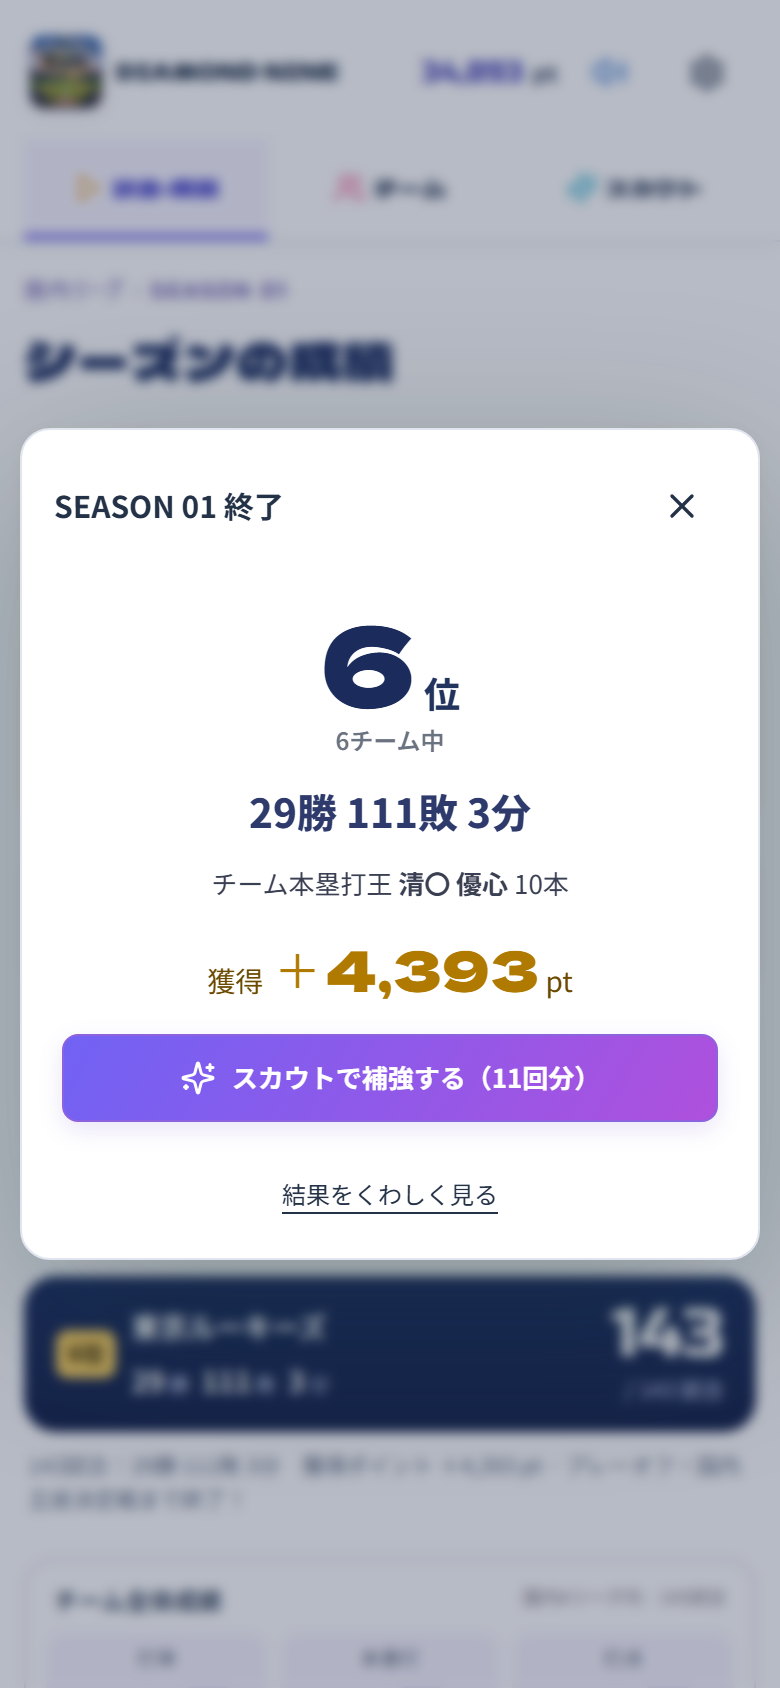
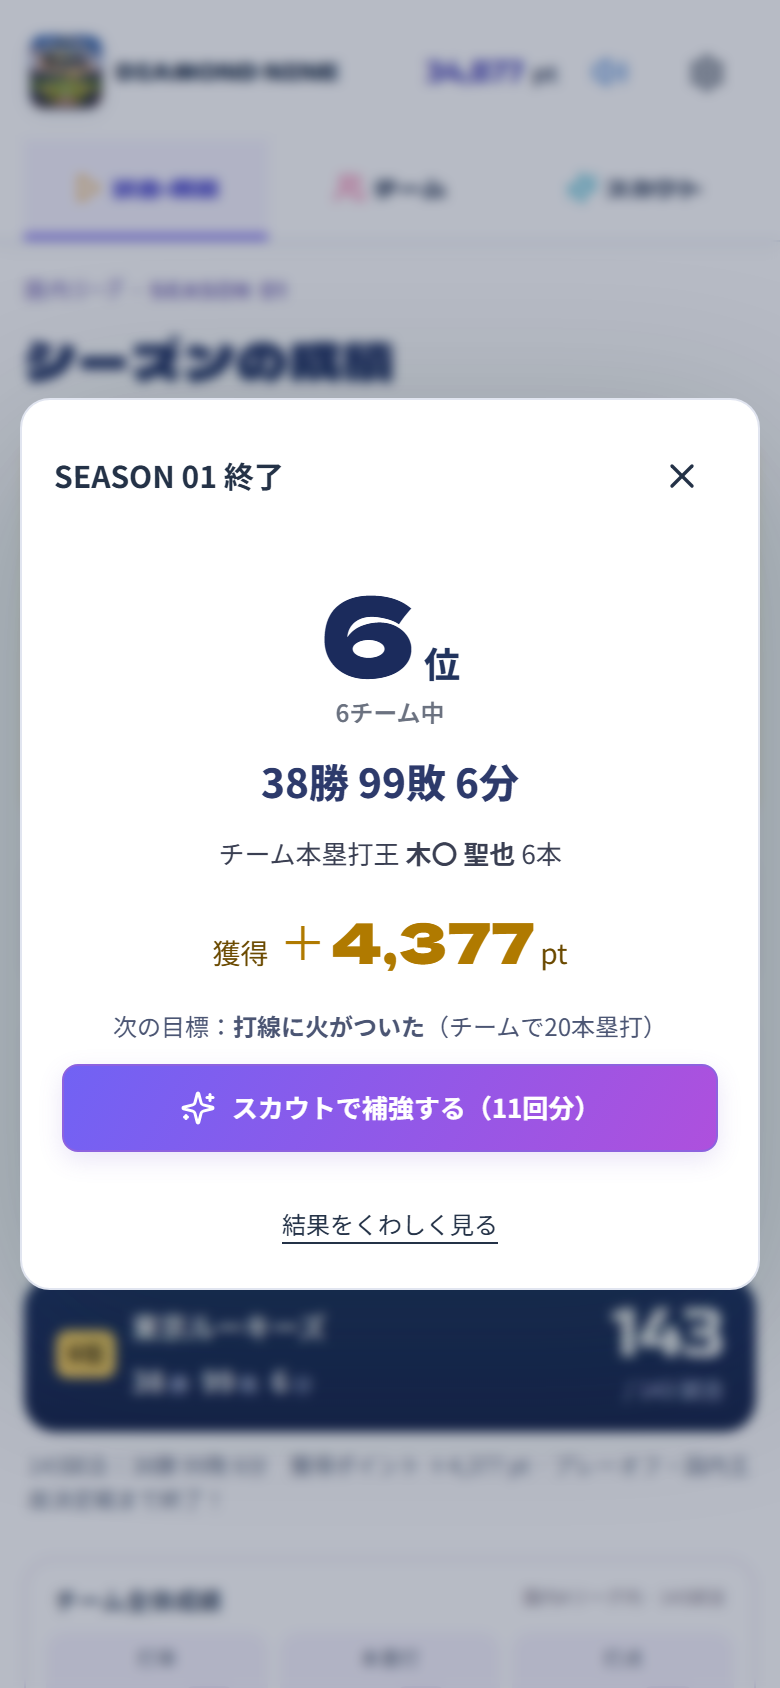
Stepping-stone season goals: 60 wins, out of last, winning record, A-class
A new club finishes last for its first seasons against real rosters, and the
next goal after 50 wins was a league title. Rank goals are judged only after the
regular season ends. The season card lists goals met (300 pt and up) and the
next goal. Raising the starting-roster caps was measured too (+2 wins in year 1)
and left out to keep the weak-start design.

diff --git a/src/pro/SimpleApp.tsx b/src/pro/SimpleApp.tsx
@@ -52,6 +52,7 @@ import {DailyPanel} from './DailyPanel';
 import {LAUNCH_GIFT,noteDailyMission,takeDailyLogin,takeLaunchGift,useDaily} from './daily';
 import {maybeAskReview,noteReviewPlayDay} from './review';
 import {FeedbackCard} from './FeedbackCard';
+import {seasonGoals} from './ambitions';
 import {feedbackUrl} from './feedback';
 
 type Page='season'|'team'|'scout'|'catalog';
@@ -152,14 +153,16 @@ export function SimpleSeason({state,busy,progress,onPlay,onPost,onNext,onPlayer,
 
 export function SimplePlayerCard({player,state}:{player:Player;state:GameState}){return <div className="s-player-card"><TradingCard player={player} state={state}/></div>;}
 
-type SeasonCard={number:number;rank:number;teams:number;w:number;l:number;d:number;points:number;better:number|null;star:{name:string;hr:number}|null};
+type SeasonCard={number:number;rank:number;teams:number;w:number;l:number;d:number;points:number;better:number|null;star:{name:string;hr:number}|null;goals:{title:string;reward:number}[];next:{title:string;detail:string}|null};
 // The end-of-season summary: rank, record, change from last season, the club's
 // home-run leader and the points earned, with a way straight into scouting.
 export function seasonCardFor(state:GameState,points:number):SeasonCard{
  const table=rankings(state.season,leagueFor(state.season,state.club)),i=table.findIndex(t=>t.team===state.club),me=table[i];
  const last=state.history.find(h=>h.number===state.season.number-1)?.standings.find(t=>t.team===state.club);
  const top=Object.values(state.season.batting).filter(b=>b.team===state.club).sort((a,b)=>b.hr-a.hr)[0];
- return {number:state.season.number,rank:i+1,teams:table.length,w:me.w,l:me.l,d:me.d,points,better:last?me.w-last.w:null,star:top&&top.hr>0&&playerMap[top.playerId]?{name:playerMap[top.playerId].name,hr:top.hr}:null};
+ const goals=seasonGoals(state),next=goals.find(g=>!g.claimed);
+ return {number:state.season.number,rank:i+1,teams:table.length,w:me.w,l:me.l,d:me.d,points,better:last?me.w-last.w:null,star:top&&top.hr>0&&playerMap[top.playerId]?{name:playerMap[top.playerId].name,hr:top.hr}:null,
+  goals:goals.filter(g=>g.claimed&&g.reward>=300).map(g=>({title:g.title,reward:g.reward})),next:next?{title:next.title,detail:next.detail}:null};
 }
 export function SimpleScout({state,onDraw,onDrawMany,onEquip,drawing,hasDrawn,onSeason,onPlayer,onSkip,adSlot}:{state:GameState;onDraw:()=>void;onDrawMany?:(n:number)=>void;onEquip:(id:string)=>void;drawing:boolean;hasDrawn:boolean;onSeason:()=>void;onPlayer?:(p:Player)=>void;onSkip?:()=>void;adSlot?:ReactNode}){
  const panel=useRef<HTMLElement>(null),result=useRef<HTMLDivElement>(null);
@@ -329,5 +332,5 @@ export default function SimpleApp({profile='career',onProfileChange}:{profile?:P
   };
   timer.current=setTimeout(()=>finishDraw.current?.(),scoutDuration(tier));
  };
- return <div className="simple-app"><header className="s-header"><a href="#" onClick={e=>{e.preventDefault();go('season');}} className="s-brand"><img className="s-brand-icon" src="/assets/pro/diamond-nine-logo-v1.png" alt="" width={44} height={44}/><b>DIAMOND NINE</b></a><div><span className="s-wallet">{count(state.gems)} <small>pt</small></span><button className="s-icon sound-toggle" aria-label={sound?"効果音をオフにする":"効果音をオンにする"} onClick={toggleSound}>{sound?<Volume2 size={18}/>:<VolumeX size={18}/>}</button><button className="s-icon" aria-label="設定を開く" onClick={()=>setSettings(true)} disabled={busy||drawing}><Settings size={19}/></button></div></header><nav className="s-nav" aria-label="メインメニュー">{tabs.map(t=><button key={t.id} aria-current={(page==='catalog'?'team':page)===t.id?'page':undefined} onClick={()=>go(t.id)} disabled={busy||drawing||starter}><t.icon size={18}/>{t.label}</button>)}</nav><main className="s-main">{!starter&&!tutorialOn&&<TesterBanner/>}{saveError&&<div className="s-save-error" role="alert">{saveError}<button onClick={()=>setSettings(true)}>設定を開く</button></div>}<BeginnerTutorial state={state} profile={profile} page={page} replay={tutorialReplay} busy={busy||drawing} onPage={go} onAuto={()=>change(buildByStrategy(state,'balanced'))} onPlay={()=>play(seasonGames(state.season))} onActive={setTutorialOn}/>{starter?<StarterScout key={resetId+'-'+state.starterScout!.choices.join('-')} state={state} sound={sound} onPick={(index,name)=>commitStarter(index,name)} onFinish={name=>commitStarter(null,name)} onPlayer={p=>setSelected(p.id)}/>:<>{page==='season'&&<SimpleSeason state={state} busy={busy} progress={progress} onPlay={play} onPost={post} onNext={()=>{track('season_next',{season:state.season.number+1});if(state.season.postseason?.champion===state.club)setTimeout(()=>maybeAskReview('title'),600);change(nextSeason(state));setMessage('新しいシーズンが始まりました。');}} onSwitchLeague={target=>{track('league_switch',{to:target});change(switchLeague(state,target));setMessage(circuitLabel(target)+'に切り替えました。選手・育成・ポイントは引き継いでいます。');}} onPlayer={p=>setSelected(p.id)} message={message} daily={<DailyPanel disabled={busy||drawing} onReward={addPoints}/>}/ >}{page==='catalog'&&<PlayerCatalog state={state} onBack={()=>go('team')} onPlayer={p=>setSelected(p.id)}/ >}{page==='team'&&<DeckTeam key={resetId} state={state} onChange={change} onPlayer={p=>setSelected(p.id)} onImpact={impact} onCatalog={()=>go('catalog')} onSeason={()=>go('season')} onReset={reset} onRestore={restore} onCompleteReset={askCompleteReset} canRestore={canRestore}/ >}{page==='scout'&&<SimpleScout state={state} onSkip={()=>finishDraw.current?.()} onDraw={draw} onDrawMany={drawMany} onEquip={id=>change(equipScoutedPlayer(state,id))} drawing={drawing} hasDrawn={hasDrawn} onSeason={()=>go('season')} onPlayer={p=>setSelected(p.id)} adSlot={rewardAd}/ >}</>}</main><footer className="s-footer">自動保存 · 国内・海外の選手 · 非公式ゲーム<div className="s-public-links"><a href="/guide.html" target="_blank" rel="noopener noreferrer">遊び方ガイド</a><a href="/welcome.html" target="_blank" rel="noopener noreferrer">ゲームを紹介する</a><a href="/privacy.html" target="_blank" rel="noopener noreferrer">データ・プライバシー</a></div></footer>{selected&&<PlayerInfo player={playerMap[selected]} state={state} catalog={page==='catalog'} onChange={change} onClose={()=>setSelected(null)} onAwaken={()=>{if(sound)gameSound('awaken');}}/ >}{settings&&<SimpleSettings onTutorial={()=>{setSettings(false);setTutorialReplay(v=>v+1);window.scrollTo({top:0,behavior:'auto'});}} state={state} onChange={change} onClose={()=>setSettings(false)} onProfileChange={onProfileChange} onReset={reset} onRestore={restore} onCompleteReset={askCompleteReset} canRestore={canRestore}/ >}{confirmCompleteReset&&<Dialog title="完全リセット" onClose={()=>setConfirmCompleteReset(false)}><div className="complete-reset-dialog"><h3>このクラブの獲得カードをすべて消します。</h3><p>所持カード {Object.keys(state.owned).length}人分・重複獲得・覚醒・ポイント・シーズン成績と、リセット前の復元用データを削除します。</p><p>初期配布の26人、覚醒なし、0ポイントに戻り、スタートスカウトで1人を選んで再スタートします。</p><p><strong>完全リセット後は元に戻せません。</strong></p><div><button className="s-button" onClick={()=>setConfirmCompleteReset(false)}>キャンセル</button><button className="s-button complete-reset" onClick={completeReset}>所持カードを消して最初から</button></div></div></Dialog>}{seasonCard&&!celebration&&<Dialog title={`SEASON ${String(seasonCard.number).padStart(2,'0')} 終了`} className="season-card-dialog" onClose={()=>setSeasonCard(null)}><div className="season-card"><p className="season-card-rank"><b>{seasonCard.rank}</b>位<small>{seasonCard.teams}チーム中</small></p><p className="season-card-record">{seasonCard.w}勝 {seasonCard.l}敗{seasonCard.d?` ${seasonCard.d}分`:''}{seasonCard.better!==null&&<em className={seasonCard.better>0?'up':seasonCard.better<0?'down':''}>{seasonCard.better>0?`昨季より ＋${seasonCard.better}勝`:seasonCard.better<0?`昨季より ${seasonCard.better}勝`:'昨季と同じ勝ち数'}</em>}</p>{seasonCard.star&&<p className="season-card-star">チーム本塁打王 <strong>{seasonCard.star.name}</strong> {seasonCard.star.hr}本</p>}<p className="season-card-points">獲得 <b>＋{count(seasonCard.points)}</b> pt</p>{state.gems>=SIMPLE_SCOUT_COST?<button className="s-primary" onClick={()=>{setSeasonCard(null);go('scout');}}><Sparkles size={18}/>スカウトで補強する（{Math.floor(state.gems/SIMPLE_SCOUT_COST)}回分）</button>:<p className="season-card-hint">次のスカウトまで あと{count(SIMPLE_SCOUT_COST-state.gems)} pt</p>}<button className="s-text-link" onClick={()=>setSeasonCard(null)}>結果をくわしく見る</button></div></Dialog>}{batch&&<Dialog title={`スカウト結果 ${batch.length}人`} className="batch-dialog" onClose={()=>setBatch(null)}><ul className="batch-list">{batch.map((p,i)=>({p,i,o:effectiveOverall(playerMap[p.playerId],state.owned,state.training)})).sort((a,b)=>b.o-a.o||a.i-b.i).map(({p,i,o},k)=>{const pl=playerMap[p.playerId];return <li key={i} className={k===0?'best':''}><b>{o}</b><span><strong>{pl.name}</strong><small>{pl.role==='pitcher'?'投手':pl.positions.join('・')||'DH'}{pl.mlb?' · 海外':''}</small></span>{p.isNew?<em>NEW</em>:<i>{p.copies<=6?'能力＋1':'＋80pt'}</i>}</li>;})}</ul><button className="s-primary" onClick={()=>{change(buildByStrategy(state,'balanced'));setBatch(null);setMessage('おまかせ編成しました。');}}><Shuffle size={17}/>おまかせ編成する</button><button className="s-text-link" onClick={()=>setBatch(null)}>閉じる</button></Dialog>}{giftPopup>0&&!tutorialOn&&!starter&&!celebration&&<Dialog title="公開記念ボーナス" className="gift-dialog" onClose={()=>setGiftPopup(0)}><div className="gift-body"><p>DIAMOND NINE の公開を記念して、ポイントをプレゼントしました。</p><b>＋{count(giftPopup)}<small>pt</small></b><p className="gift-hint">スカウト{Math.floor(giftPopup/SIMPLE_SCOUT_COST)}回分です。打線を強くする選手を探しましょう。</p><button className="s-primary" onClick={()=>{track('launch_gift_scout',{});setGiftPopup(0);go('scout');}}><Sparkles size={18}/>スカウトで補強する</button><button className="s-text-link" onClick={()=>setGiftPopup(0)}>あとで</button></div></Dialog>}{celebration&&<TitleCelebration celebration={celebration} sound={sound} onToggleSound={toggleSound} onClose={()=>setCelebration(null)}/>}<PlayerHoverPreview owned={page==='catalog'?{}:state.owned} training={page==='catalog'?{}:state.training}/></div>;
+ return <div className="simple-app"><header className="s-header"><a href="#" onClick={e=>{e.preventDefault();go('season');}} className="s-brand"><img className="s-brand-icon" src="/assets/pro/diamond-nine-logo-v1.png" alt="" width={44} height={44}/><b>DIAMOND NINE</b></a><div><span className="s-wallet">{count(state.gems)} <small>pt</small></span><button className="s-icon sound-toggle" aria-label={sound?"効果音をオフにする":"効果音をオンにする"} onClick={toggleSound}>{sound?<Volume2 size={18}/>:<VolumeX size={18}/>}</button><button className="s-icon" aria-label="設定を開く" onClick={()=>setSettings(true)} disabled={busy||drawing}><Settings size={19}/></button></div></header><nav className="s-nav" aria-label="メインメニュー">{tabs.map(t=><button key={t.id} aria-current={(page==='catalog'?'team':page)===t.id?'page':undefined} onClick={()=>go(t.id)} disabled={busy||drawing||starter}><t.icon size={18}/>{t.label}</button>)}</nav><main className="s-main">{!starter&&!tutorialOn&&<TesterBanner/>}{saveError&&<div className="s-save-error" role="alert">{saveError}<button onClick={()=>setSettings(true)}>設定を開く</button></div>}<BeginnerTutorial state={state} profile={profile} page={page} replay={tutorialReplay} busy={busy||drawing} onPage={go} onAuto={()=>change(buildByStrategy(state,'balanced'))} onPlay={()=>play(seasonGames(state.season))} onActive={setTutorialOn}/>{starter?<StarterScout key={resetId+'-'+state.starterScout!.choices.join('-')} state={state} sound={sound} onPick={(index,name)=>commitStarter(index,name)} onFinish={name=>commitStarter(null,name)} onPlayer={p=>setSelected(p.id)}/>:<>{page==='season'&&<SimpleSeason state={state} busy={busy} progress={progress} onPlay={play} onPost={post} onNext={()=>{track('season_next',{season:state.season.number+1});if(state.season.postseason?.champion===state.club)setTimeout(()=>maybeAskReview('title'),600);change(nextSeason(state));setMessage('新しいシーズンが始まりました。');}} onSwitchLeague={target=>{track('league_switch',{to:target});change(switchLeague(state,target));setMessage(circuitLabel(target)+'に切り替えました。選手・育成・ポイントは引き継いでいます。');}} onPlayer={p=>setSelected(p.id)} message={message} daily={<DailyPanel disabled={busy||drawing} onReward={addPoints}/>}/ >}{page==='catalog'&&<PlayerCatalog state={state} onBack={()=>go('team')} onPlayer={p=>setSelected(p.id)}/ >}{page==='team'&&<DeckTeam key={resetId} state={state} onChange={change} onPlayer={p=>setSelected(p.id)} onImpact={impact} onCatalog={()=>go('catalog')} onSeason={()=>go('season')} onReset={reset} onRestore={restore} onCompleteReset={askCompleteReset} canRestore={canRestore}/ >}{page==='scout'&&<SimpleScout state={state} onSkip={()=>finishDraw.current?.()} onDraw={draw} onDrawMany={drawMany} onEquip={id=>change(equipScoutedPlayer(state,id))} drawing={drawing} hasDrawn={hasDrawn} onSeason={()=>go('season')} onPlayer={p=>setSelected(p.id)} adSlot={rewardAd}/ >}</>}</main><footer className="s-footer">自動保存 · 国内・海外の選手 · 非公式ゲーム<div className="s-public-links"><a href="/guide.html" target="_blank" rel="noopener noreferrer">遊び方ガイド</a><a href="/welcome.html" target="_blank" rel="noopener noreferrer">ゲームを紹介する</a><a href="/privacy.html" target="_blank" rel="noopener noreferrer">データ・プライバシー</a></div></footer>{selected&&<PlayerInfo player={playerMap[selected]} state={state} catalog={page==='catalog'} onChange={change} onClose={()=>setSelected(null)} onAwaken={()=>{if(sound)gameSound('awaken');}}/ >}{settings&&<SimpleSettings onTutorial={()=>{setSettings(false);setTutorialReplay(v=>v+1);window.scrollTo({top:0,behavior:'auto'});}} state={state} onChange={change} onClose={()=>setSettings(false)} onProfileChange={onProfileChange} onReset={reset} onRestore={restore} onCompleteReset={askCompleteReset} canRestore={canRestore}/ >}{confirmCompleteReset&&<Dialog title="完全リセット" onClose={()=>setConfirmCompleteReset(false)}><div className="complete-reset-dialog"><h3>このクラブの獲得カードをすべて消します。</h3><p>所持カード {Object.keys(state.owned).length}人分・重複獲得・覚醒・ポイント・シーズン成績と、リセット前の復元用データを削除します。</p><p>初期配布の26人、覚醒なし、0ポイントに戻り、スタートスカウトで1人を選んで再スタートします。</p><p><strong>完全リセット後は元に戻せません。</strong></p><div><button className="s-button" onClick={()=>setConfirmCompleteReset(false)}>キャンセル</button><button className="s-button complete-reset" onClick={completeReset}>所持カードを消して最初から</button></div></div></Dialog>}{seasonCard&&!celebration&&<Dialog title={`SEASON ${String(seasonCard.number).padStart(2,'0')} 終了`} className="season-card-dialog" onClose={()=>setSeasonCard(null)}><div className="season-card"><p className="season-card-rank"><b>{seasonCard.rank}</b>位<small>{seasonCard.teams}チーム中</small></p><p className="season-card-record">{seasonCard.w}勝 {seasonCard.l}敗{seasonCard.d?` ${seasonCard.d}分`:''}{seasonCard.better!==null&&<em className={seasonCard.better>0?'up':seasonCard.better<0?'down':''}>{seasonCard.better>0?`昨季より ＋${seasonCard.better}勝`:seasonCard.better<0?`昨季より ${seasonCard.better}勝`:'昨季と同じ勝ち数'}</em>}</p>{seasonCard.star&&<p className="season-card-star">チーム本塁打王 <strong>{seasonCard.star.name}</strong> {seasonCard.star.hr}本</p>}{seasonCard.goals.length>0&&<ul className="season-card-goals">{seasonCard.goals.map(g=><li key={g.title}><Check size={14}/>{g.title}<span>＋{count(g.reward)} pt</span></li>)}</ul>}<p className="season-card-points">獲得 <b>＋{count(seasonCard.points)}</b> pt</p>{seasonCard.next&&<p className="season-card-next">次の目標：<strong>{seasonCard.next.title}</strong>（{seasonCard.next.detail}）</p>}{state.gems>=SIMPLE_SCOUT_COST?<button className="s-primary" onClick={()=>{setSeasonCard(null);go('scout');}}><Sparkles size={18}/>スカウトで補強する（{Math.floor(state.gems/SIMPLE_SCOUT_COST)}回分）</button>:<p className="season-card-hint">次のスカウトまで あと{count(SIMPLE_SCOUT_COST-state.gems)} pt</p>}<button className="s-text-link" onClick={()=>setSeasonCard(null)}>結果をくわしく見る</button></div></Dialog>}{batch&&<Dialog title={`スカウト結果 ${batch.length}人`} className="batch-dialog" onClose={()=>setBatch(null)}><ul className="batch-list">{batch.map((p,i)=>({p,i,o:effectiveOverall(playerMap[p.playerId],state.owned,state.training)})).sort((a,b)=>b.o-a.o||a.i-b.i).map(({p,i,o},k)=>{const pl=playerMap[p.playerId];return <li key={i} className={k===0?'best':''}><b>{o}</b><span><strong>{pl.name}</strong><small>{pl.role==='pitcher'?'投手':pl.positions.join('・')||'DH'}{pl.mlb?' · 海外':''}</small></span>{p.isNew?<em>NEW</em>:<i>{p.copies<=6?'能力＋1':'＋80pt'}</i>}</li>;})}</ul><button className="s-primary" onClick={()=>{change(buildByStrategy(state,'balanced'));setBatch(null);setMessage('おまかせ編成しました。');}}><Shuffle size={17}/>おまかせ編成する</button><button className="s-text-link" onClick={()=>setBatch(null)}>閉じる</button></Dialog>}{giftPopup>0&&!tutorialOn&&!starter&&!celebration&&<Dialog title="公開記念ボーナス" className="gift-dialog" onClose={()=>setGiftPopup(0)}><div className="gift-body"><p>DIAMOND NINE の公開を記念して、ポイントをプレゼントしました。</p><b>＋{count(giftPopup)}<small>pt</small></b><p className="gift-hint">スカウト{Math.floor(giftPopup/SIMPLE_SCOUT_COST)}回分です。打線を強くする選手を探しましょう。</p><button className="s-primary" onClick={()=>{track('launch_gift_scout',{});setGiftPopup(0);go('scout');}}><Sparkles size={18}/>スカウトで補強する</button><button className="s-text-link" onClick={()=>setGiftPopup(0)}>あとで</button></div></Dialog>}{celebration&&<TitleCelebration celebration={celebration} sound={sound} onToggleSound={toggleSound} onClose={()=>setCelebration(null)}/>}<PlayerHoverPreview owned={page==='catalog'?{}:state.owned} training={page==='catalog'?{}:state.training}/></div>;
 }

diff --git a/src/pro/ambitions.ts b/src/pro/ambitions.ts
@@ -1,10 +1,14 @@
 import { players,playerMap,type Rarity } from './data';
 import type { GameState } from './engine';
 import { isCareer } from './progression';
+import { leagueFor,standingOrder } from './leagues';
 
 export function seasonGoals(state:GameState){
  const s=state.season,mine=s.standings.find(t=>t.team===state.club)!;
  const hr=Object.values(s.batting).filter(b=>b.team===state.club).reduce((n,b)=>n+b.hr,0);
+ // Rank goals count only once the regular season is over, so a hot start cannot claim them.
+ const league=leagueFor(s,state.club),table=s.standings.filter(t=>leagueFor(s,t.team)===league).sort(standingOrder);
+ const rank=table.findIndex(t=>t.team===state.club)+1,done=s.completed?1:0,teams=table.length;
  return [
   {key:'first-homer',title:'最初の一発',detail:'チームで本塁打を1本',value:hr,goal:1,reward:50,training:0},
   {key:'five-wins',title:'勝てるチームへ',detail:'シーズン5勝',value:mine.w,goal:5,reward:75,training:0},
@@ -12,6 +16,10 @@ export function seasonGoals(state:GameState){
   {key:'twenty-homers',title:'打線に火がついた',detail:'チームで20本塁打',value:hr,goal:20,reward:100,training:0},
   {key:'sixty-games',title:'折り返しへの助走',detail:'60試合をプレイ',value:s.day,goal:60,reward:150,training:0},
   {key:'fifty-wins',title:'50の歓喜',detail:'シーズン50勝',value:mine.w,goal:50,reward:150,training:0},
+  {key:'sixty-wins',title:'60勝の壁',detail:'シーズン60勝',value:mine.w,goal:60,reward:300,training:0},
+  {key:'out-of-last',title:'最下位脱出',detail:'シーズンを5位以上で終える',value:done&&rank<teams?1:0,goal:1,reward:500,training:0},
+  {key:'winning-record',title:'勝ち越し',detail:'シーズンを勝ち越して終える',value:done&&mine.w>mine.l?1:0,goal:1,reward:800,training:0},
+  {key:'a-class',title:'Aクラス入り',detail:'シーズンを3位以上で終える',value:done&&rank<=3?1:0,goal:1,reward:1000,training:0},
  ].map(g=>({...g,id:`season-${s.number}-${g.key}`,claimed:state.franchise.claimed.includes(`season-${s.number}-${g.key}`)}));
 }
 export function claimSeasonGoals(input:GameState):GameState {

diff --git a/scripts/test-retention.ts b/scripts/test-retention.ts
@@ -5,6 +5,9 @@ import {DAILY_ALL_BONUS,DAILY_LOGIN_POINTS,DAILY_MISSIONS,LAUNCH_GIFT,claimLogin
 import {DailyPanel} from '../src/pro/DailyPanel';
 import {REVIEW_GAP_DAYS,maybeAskReview,notePlayDay,parseReview,reviewDue} from '../src/pro/review';
 import {FEEDBACK_FORM,deviceLabel,feedbackUrl} from '../src/pro/feedback';
+import {seasonGoals} from '../src/pro/ambitions';
+import {initialState,simulateDays} from '../src/pro/engine';
+import {seasonGames} from '../src/pro/leagues';
 
 const memoryStorage=()=>{const m=new Map<string,string>();return {getItem:(k:string)=>m.get(k)??null,setItem:(k:string,v:string)=>{m.set(k,String(v));},removeItem:(k:string)=>{m.delete(k);},clear:()=>m.clear(),key:()=>null,length:0};};
 const withStorage=<T,>(run:()=>T)=>{const g=globalThis as {localStorage?:unknown};const old=g.localStorage;g.localStorage=memoryStorage();try{return run();}finally{g.localStorage=old;}};
@@ -64,5 +67,13 @@ export function registerRetentionTests(test:(name:string,run:()=>void)=>void){
   assert.equal(deviceLabel({navigator:{userAgent:'Mozilla/5.0 (iPhone; CPU iPhone OS 18_1 like Mac OS X)'}}),'ブラウザ版 / iPhone; CPU iPhone OS 18.1');
   const url=new URL(feedbackUrl(android));assert.equal(url.origin+url.pathname,FEEDBACK_FORM);assert.equal(url.searchParams.get('entry.896994809'),android);
   assert.deepEqual([...url.searchParams.keys()].sort(),['entry.896994809','usp']);
+ });
+ test('rank goals wait for the end of the regular season and match the final table',()=>{
+  const start=initialState(7),mid=simulateDays(start,40),end=simulateDays(start,seasonGames(start.season));
+  const rankGoals=['out-of-last','winning-record','a-class'],pick=(st:typeof start)=>Object.fromEntries(seasonGoals(st).filter(g=>rankGoals.includes(g.key)).map(g=>[g.key,g.value]));
+  assert.deepEqual(pick(mid),{'out-of-last':0,'winning-record':0,'a-class':0});
+  assert.equal(end.season.completed,true);
+  const me=end.season.standings.find(t=>t.team===end.club)!;assert.equal(pick(end)['winning-record'],me.w>me.l?1:0);
+  assert.ok(seasonGoals(end).every(g=>g.id.startsWith('season-1-')));
  });
 }

diff --git a/src/pro/daily.css b/src/pro/daily.css
@@ -52,3 +52,7 @@
 .season-card-dialog .s-primary{justify-content:center}
 .s-play-steps{display:grid;grid-template-columns:1fr 1fr;gap:8px;margin-top:8px;width:100%}
 .s-play-steps .s-button{justify-content:center;width:100%}
+.season-card-goals{list-style:none;margin:0;padding:8px 10px;display:grid;gap:4px;border-radius:10px;background:#f1fbf3;border:1px solid #bfe5c8}
+.season-card-goals li{display:flex;align-items:center;gap:6px;font-size:13px;font-weight:700;color:#23653a}
+.season-card-goals li span{margin-left:auto;color:#8a6a1c}
+.season-card-next{margin:0;font-size:12px;color:#4b5573}
